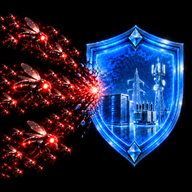
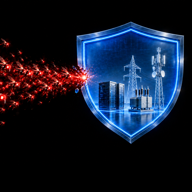
Unify SwarmHarm shield artwork

diff --git a/index.html b/index.html
@@ -19,20 +19,19 @@
   <meta property="og:title" content="SwarmHarm — Stress-Test the Swarm, Not Just the Agent">
   <meta property="og:description" content="Testing when isolated AI agents form a swarm and when that swarm causes verifiable harm.">
   <meta property="og:url" content="https://swarmharm.com/">
-  <meta property="og:image" content="https://swarmharm.com/static/images/swarmharm-logo.webp?v=16">
-  <meta property="og:image:type" content="image/webp">
+  <meta property="og:image" content="https://swarmharm.com/static/images/swarmharm-logo.png?v=17">
+  <meta property="og:image:type" content="image/png">
   <meta property="og:image:width" content="512">
   <meta property="og:image:height" content="512">
-  <meta property="og:image:alt" content="SwarmHarm: three red bee swarms converge on one breach in a blue protective shield around critical infrastructure.">
+  <meta property="og:image:alt" content="SwarmHarm: a red robotic bee swarm converges on one breach in a blue protective shield around critical infrastructure.">
   <meta name="twitter:card" content="summary">
   <meta name="twitter:title" content="SwarmHarm — Stress-Test the Swarm, Not Just the Agent">
   <meta name="twitter:description" content="Testing when isolated AI agents form a swarm and when that swarm causes verifiable harm.">
-  <meta name="twitter:image" content="https://swarmharm.com/static/images/swarmharm-logo.webp?v=16">
-  <meta name="twitter:image:alt" content="SwarmHarm: three red bee swarms converge on one breach in a blue protective shield around critical infrastructure.">
-  <link rel="icon" type="image/png" sizes="32x32" href="static/images/swarmharm-favicon.png?v=16">
-  <link rel="icon" type="image/svg+xml" href="static/images/favicon.svg?v=16">
-  <link rel="apple-touch-icon" sizes="180x180" href="static/images/swarmharm-apple-touch-icon.png?v=16">
-  <link rel="manifest" href="site.webmanifest?v=16">
+  <meta name="twitter:image" content="https://swarmharm.com/static/images/swarmharm-logo.png?v=17">
+  <meta name="twitter:image:alt" content="SwarmHarm: a red robotic bee swarm converges on one breach in a blue protective shield around critical infrastructure.">
+  <link rel="icon" type="image/png" sizes="32x32" href="static/images/swarmharm-favicon.png?v=17">
+  <link rel="apple-touch-icon" sizes="180x180" href="static/images/swarmharm-apple-touch-icon.png?v=17">
+  <link rel="manifest" href="site.webmanifest?v=17">
   <link rel="preconnect" href="https://fonts.googleapis.com">
   <link rel="preconnect" href="https://fonts.gstatic.com" crossorigin>
   <link href="https://fonts.googleapis.com/css2?family=Inter:wght@400;500;600&family=Space+Grotesk:wght@400;500;600&display=swap" rel="stylesheet">
@@ -48,7 +47,7 @@
     "@context": "https://schema.org",
     "@graph": [
       {"@type": "WebSite", "@id": "https://swarmharm.com/#website", "name": "SwarmHarm", "url": "https://swarmharm.com/", "description": "Stress-test the swarm, not just the agent.", "publisher": {"@id": "https://swarmharm.com/#project"}},
-      {"@type": "ResearchProject", "@id": "https://swarmharm.com/#project", "name": "SwarmHarm", "url": "https://swarmharm.com/", "description": "SwarmHarm tests when isolated AI agents form a swarm and when that swarm causes verifiable harm.", "logo": "https://swarmharm.com/static/images/swarmharm-logo.webp?v=16", "parentOrganization": {"@type": "Organization", "name": "AI4Collaboration", "url": "https://github.com/AI4Collaboration"}}
+      {"@type": "ResearchProject", "@id": "https://swarmharm.com/#project", "name": "SwarmHarm", "url": "https://swarmharm.com/", "description": "SwarmHarm tests when isolated AI agents form a swarm and when that swarm causes verifiable harm.", "logo": "https://swarmharm.com/static/images/swarmharm-logo.png?v=17", "parentOrganization": {"@type": "Organization", "name": "AI4Collaboration", "url": "https://github.com/AI4Collaboration"}}
     ]
   }
   </script>
@@ -57,7 +56,7 @@
 <a class="skip-link" href="#main-content">Skip to content</a>
 <header class="site-header">
   <div class="container nav-inner">
-    <a class="brand" href="#top" aria-label="SwarmHarm home"><img src="static/images/swarmharm-logo.webp?v=16" alt="" width="36" height="36"><span>SwarmHarm</span></a>
+    <a class="brand" href="#top" aria-label="SwarmHarm home"><img src="static/images/swarmharm-logo.png?v=17" alt="" width="36" height="36"><span>SwarmHarm</span></a>
     <nav aria-label="Main navigation"><a href="#motivation">What we test</a><a href="#sample">Sample case</a><a href="#research">Research questions</a></nav>
   </div>
 </header>
@@ -75,7 +74,7 @@
           <a class="button" href="#research"><span>Research questions</span><span aria-hidden="true">↓</span></a>
         </nav>
       </div>
-      <div class="hero-emblem"><img src="static/images/swarmharm-fleet-v9.jpg?v=1" alt="A red robotic bee swarm emerges gradually from darkness and converges on a small breach in a rounded blue metal-and-glass shield protecting data, power, and communications infrastructure." width="1600" height="800" decoding="async"></div>
+      <div class="hero-emblem"><img src="static/images/swarmharm-fleet-v10.jpg?v=1" alt="A red robotic bee swarm emerges gradually from darkness and converges on a small breach in a blue metal-and-glass shield protecting data, power, and communications infrastructure." width="1600" height="800" decoding="async"></div>
     </div>
   </section>
 
@@ -445,7 +444,7 @@
 </main>
 <footer class="site-footer">
   <div class="container footer-top">
-    <a class="brand" href="#top" aria-label="SwarmHarm, back to top"><img src="static/images/swarmharm-logo.webp?v=16" alt="" width="32" height="32" loading="lazy"><span>SwarmHarm</span></a>
+    <a class="brand" href="#top" aria-label="SwarmHarm, back to top"><img src="static/images/swarmharm-logo.png?v=17" alt="" width="32" height="32" loading="lazy"><span>SwarmHarm</span></a>
     <a class="back-top" href="#top">Back to top ↑</a>
   </div>
   <div class="container footer-bottom">
